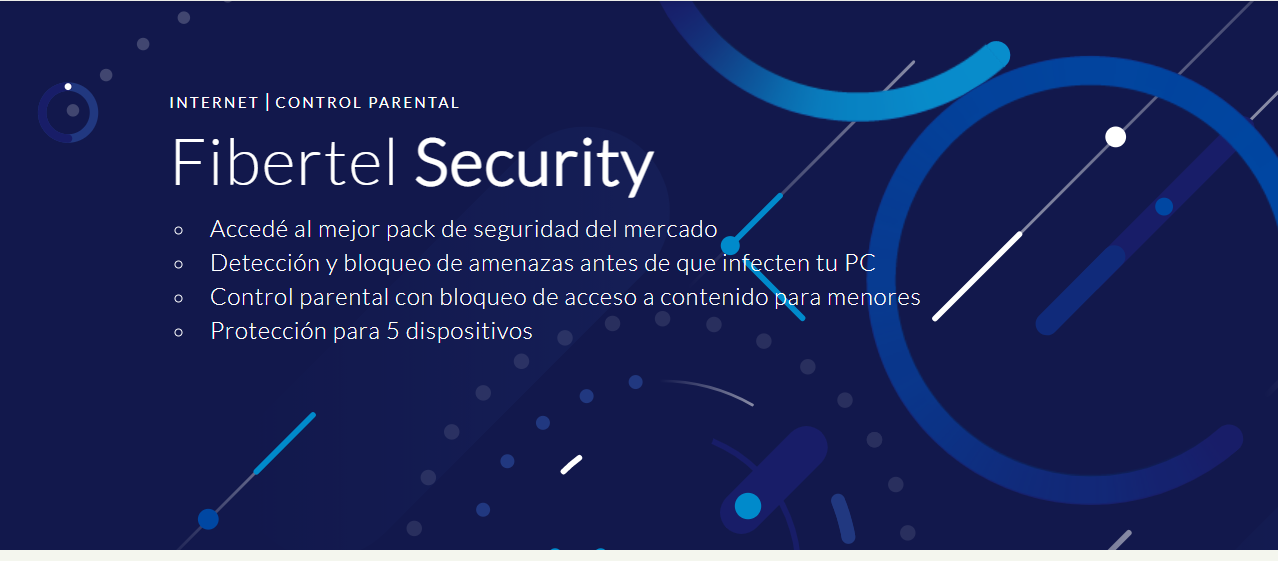
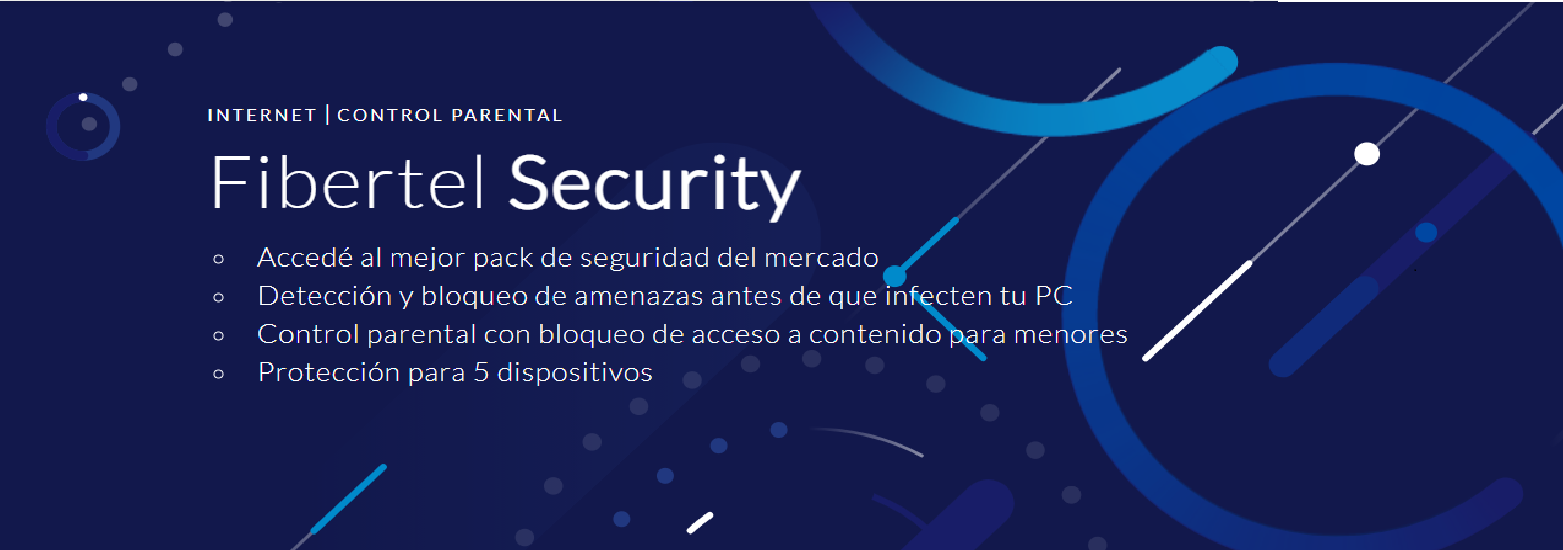
se actualizan modificaciones en footer

diff --git a/index.html b/index.html
@@ -54,13 +54,13 @@
             </div>
             <div class="carousel-inner">
               <div class="carousel-item active">
-                <img src="assets/banner-club.png" class="d-block w-100" alt="Banner Club" height=416px>
+                <img src="assets/banner-club.png" class="d-block w-100 img-fluid" alt="Banner Club" height=416px>
               </div>
               <div class="carousel-item">
-                <img src="assets/banner-fibertelsecurity.png" class="d-block w-100 mh-100" alt="fibertelSecurity" height=416px>
+                <img src="assets/banner-fibertelsecurity.png" class="d-block w-100 mh-100 img-fluid" alt="fibertelSecurity" height=416px>
               </div>
               <div class="carousel-item">
-                <img src="assets/banner-flow.png" class="d-block w-100" alt="banner flow" height=416px>
+                <img src="assets/banner-flow.png" class="d-block w-100 img-fluid" alt="banner flow" height=416px>
               </div>
             </div>
             <button class="carousel-control-prev" type="button" data-bs-target="#carouselExampleIndicators" data-bs-slide="prev">
@@ -224,35 +224,30 @@
         </div>
       </section>
                 <!-- Footer-->
-                <div class="container-fluid my-5">
-
-                  <footer class="text-center text-white" style="background-color: white">
-                    <!-- Grid container -->
-                    <div class="container-fluid p-4">
-                      <!-- Section: Images -->
-                      <section class="">
-                        <div class="row">
-                          <div class="col-lg-2 col-md-12 mb-4 mb-md-0">
-                              <div class="hover-overlay ripple shadow-1-strong rounded" data-ripple-color="light">
-                                  <img src="./assets/footer.png" class="img-fluid d-block"/>
-                                  <a href="#">
-                                      <div class="mask" style="background-color:white"></div></a>
-                              </div>
-                          </div>
-                        
-                      </section>
-                      <!-- Section: Images -->
-                    </div>
-                    <!-- Grid container -->
-                
-                  
-                    <div class="text-center p-3" style="background-color: rgba(0, 0, 0, 0.2);">
-                          <a class="text-white" href="../assets/instructivo.pdf">Descargar instructivos</a>
-                          <a class="text-white" href="mailto:beneficiosempleados@teco.com.ar">Envianos un mail</a>
-                          <a class="text-white" href="https://www.yammer.com/teco.com.ar/">Yammer</a>
-                    </div>
-        
-                  </footer>
+                <section>
+                  <div class="container-fluid my-5">
+  
+       <footer class="text-center text-white" style="background-color: white">
+        <!-- Grid container -->
+          <div class="container-fluid p-4">
+          <!-- Section: Images -->
+             <section class="">
+                  <div class="justify-content-center">
+                      <img src="../assets/footer.png" class="mx-auto d-block img-fluid"/>
+                      <a href="#"><div class="mask" style="background-color:white"></div></a>
+                  </div>
+            </div>
+         </div>
+                      <!-- Grid container -->
+                    </section>
+                    
+                      <div class="text-center p-3" style="background-color: rgba(0, 0, 0, 0.2);">
+                            <a class="text-white" href="../assets/instructivo.pdf">Descargar instructivos</a>
+                            <a class="text-white" href="mailto:beneficiosempleados@teco.com.ar">Envianos un mail</a>
+                            <a class="text-white" href="https://www.yammer.com/teco.com.ar/">Yammer</a>
+                      </div>
+          
+                    </footer>
 
         <!-- Bootstrap core JS-->
         <script src="https://cdn.jsdelivr.net/npm/bootstrap@5.1.0/dist/js/bootstrap.bundle.min.js"></script>

diff --git a/assets/telecom.html b/assets/telecom.html
@@ -104,36 +104,31 @@
                           </tbody>
                           </table>
           </section>
-        <!-- Footer-->
-        <div class="container my-5">
-
-            <footer class="text-center text-white" style="background-color: white">
-              <!-- Grid container -->
-              <div class="container p-4 img-fluid">
-                <!-- Section: Images -->
-                <section class="">
-                  <div class="row">
-                    <div class="col-lg-2 col-md-12 mb-4 mb-md-0">
-                        <div class="bg-image hover-overlay ripple shadow-1-strong rounded" data-ripple-color="light">
-                            <img src="../assets/footer.png" class="mx-auto d-block"/>
-                            <a href="#">
-                                <div class="mask" style="background-color:white"></div></a>
-                        </div>
-                    </div>
-                  
-                </section>
-                <!-- Section: Images -->
-              </div>
-              <!-- Grid container -->
+                <!-- Footer-->
+                <section>
+                  <div class="container-fluid my-5">
+  
+       <footer class="text-center text-white" style="background-color: white">
+        <!-- Grid container -->
+          <div class="container-fluid p-4">
+          <!-- Section: Images -->
+             <section class="">
+                  <div class="justify-content-center">
+                      <img src="../assets/footer.png" class="mx-auto d-block img-fluid"/>
+                      <a href="#"><div class="mask" style="background-color:white"></div></a>
+                  </div>
+            </div>
+         </div>
+                      <!-- Grid container -->
+                    </section>
+                    
+                      <div class="text-center p-3" style="background-color: rgba(0, 0, 0, 0.2);">
+                            <a class="text-white" href="../assets/instructivo.pdf">Descargar instructivos</a>
+                            <a class="text-white" href="mailto:beneficiosempleados@teco.com.ar">Envianos un mail</a>
+                            <a class="text-white" href="https://www.yammer.com/teco.com.ar/">Yammer</a>
+                      </div>
           
-            
-              <div class="text-center p-3" style="background-color: rgba(0, 0, 0, 0.2);">
-                    <a class="text-white" href="../assets/instructivo.pdf">Descargar instructivos</a>
-                    <a class="text-white" href="mailto:beneficiosempleados@teco.com.ar">Envianos un mail</a>
-                    <a class="text-white" href="https://www.yammer.com/teco.com.ar/">Yammer</a>
-              </div>
-
-            </footer>
+                    </footer>
         <!-- Bootstrap core JS-->
         <script src="https://cdn.jsdelivr.net/npm/bootstrap@5.1.0/dist/js/bootstrap.bundle.min.js"></script>
         <!-- Core theme JS-->

diff --git a/assets/cablevision.html b/assets/cablevision.html
@@ -252,35 +252,31 @@
                 </table>
         </section>
         <!-- Footer-->
-        <div class="container my-5">
-
-            <footer class="text-center text-white" style="background-color: white">
-              <!-- Grid container -->
-              <div class="container p-4 img-fluid">
-                <!-- Section: Images -->
-                <section class="">
-                  <div class="row">
-                    <div class="col-lg-2 col-md-12 mb-4 mb-md-0">
-                        <div class="bg-image hover-overlay ripple shadow-1-strong rounded" data-ripple-color="light">
-                            <img src="../assets/footer.png" class="mx-auto d-block"/>
-                            <a href="#">
-                                <div class="mask" style="background-color:white"></div></a>
-                        </div>
-                    </div>
-                  
-                </section>
-                <!-- Section: Images -->
-              </div>
-              <!-- Grid container -->
+                <!-- Footer-->
+                <section>
+                  <div class="container-fluid my-5">
+  
+       <footer class="text-center text-white" style="background-color: white">
+        <!-- Grid container -->
+          <div class="container-fluid p-4">
+          <!-- Section: Images -->
+             <section class="">
+                  <div class="justify-content-center">
+                      <img src="../assets/footer.png" class="mx-auto d-block img-fluid"/>
+                      <a href="#"><div class="mask" style="background-color:white"></div></a>
+                  </div>
+            </div>
+         </div>
+                      <!-- Grid container -->
+                    </section>
+                    
+                      <div class="text-center p-3" style="background-color: rgba(0, 0, 0, 0.2);">
+                            <a class="text-white" href="../assets/instructivo.pdf">Descargar instructivos</a>
+                            <a class="text-white" href="mailto:beneficiosempleados@teco.com.ar">Envianos un mail</a>
+                            <a class="text-white" href="https://www.yammer.com/teco.com.ar/">Yammer</a>
+                      </div>
           
-            
-              <div class="text-center p-3" style="background-color: rgba(0, 0, 0, 0.2);">
-                    <a class="text-white" href="../assets/instructivo.pdf">Descargar instructivos</a>
-                    <a class="text-white" href="mailto:beneficiosempleados@teco.com.ar">Envianos un mail</a>
-                    <a class="text-white" href="https://www.yammer.com/teco.com.ar/">Yammer</a>
-              </div>
-
-            </footer>
+                    </footer>
         <!-- Bootstrap core JS-->
         <script src="https://cdn.jsdelivr.net/npm/bootstrap@5.1.0/dist/js/bootstrap.bundle.min.js"></script>
         <!-- Core theme JS-->

diff --git a/assets/Personal.html b/assets/Personal.html
@@ -162,36 +162,31 @@
       </div>
 </section>
 
-        <!-- Footer-->
-        <div class="container my-5">
-
-          <footer class="text-center text-white" style="background-color: white">
-            <!-- Grid container -->
-            <div class="container p-4 img-fluid">
-              <!-- Section: Images -->
-              <section class="">
-                <div class="row">
-                  <div class="col-lg-2 col-md-12 mb-4 mb-md-0">
-                      <div class="bg-image hover-overlay ripple shadow-1-strong rounded" data-ripple-color="light">
-                          <img src="../assets/footer.png" class="mx-auto d-block"/>
-                          <a href="#">
-                              <div class="mask" style="background-color:white"></div></a>
-                      </div>
+                <!-- Footer-->
+                <section>
+                  <div class="container-fluid my-5">
+  
+       <footer class="text-center text-white" style="background-color: white">
+        <!-- Grid container -->
+          <div class="container-fluid p-4">
+          <!-- Section: Images -->
+             <section class="">
+                  <div class="justify-content-center">
+                      <img src="../assets/footer.png" class="mx-auto d-block img-fluid"/>
+                      <a href="#"><div class="mask" style="background-color:white"></div></a>
                   </div>
-                
-              </section>
-              <!-- Section: Images -->
             </div>
-            <!-- Grid container -->
-        
+         </div>
+                      <!-- Grid container -->
+                    </section>
+                    
+                      <div class="text-center p-3" style="background-color: rgba(0, 0, 0, 0.2);">
+                            <a class="text-white" href="../assets/instructivo.pdf">Descargar instructivos</a>
+                            <a class="text-white" href="mailto:beneficiosempleados@teco.com.ar">Envianos un mail</a>
+                            <a class="text-white" href="https://www.yammer.com/teco.com.ar/">Yammer</a>
+                      </div>
           
-            <div class="text-center p-3" style="background-color: rgba(0, 0, 0, 0.2);">
-                  <a class="text-white" href="../assets/instructivo.pdf">Descargar instructivos</a>
-                  <a class="text-white" href="mailto:beneficiosempleados@teco.com.ar">Envianos un mail</a>
-                  <a class="text-white" href="https://www.yammer.com/teco.com.ar/">Yammer</a>
-            </div>
-
-          </footer>
+                    </footer>
         <!-- Bootstrap core JS-->
         <script src="https://cdn.jsdelivr.net/npm/bootstrap@5.1.0/dist/js/bootstrap.bundle.min.js"></script>
         <!-- Core theme JS-->

diff --git a/assets/fibertel.html b/assets/fibertel.html
@@ -160,23 +160,31 @@
     </div>
  </section>
         <!-- Footer-->
-        <div class="container my-5">
-
-            <footer class="text-center text-white" style="background-color: white">
-              <!-- Grid container -->
-              <div class="container p-4 img-fluid">
-                <!-- Section: Images -->
-                <section class="">
-                  <div class="row">
-                    <div class="col-lg-2 col-md-12 mb-4 mb-md-0">
-                        <div class="bg-image hover-overlay ripple shadow-1-strong rounded" data-ripple-color="light">
-                            <img src="../assets/footer.png" class="mx-auto d-block"/>
-                            <a href="#">
-                                <div class="mask" style="background-color:white"></div></a>
-                        </div>
-                    </div>
-                  
-                </section>
+                <!-- Footer-->
+                <section>
+                  <div class="container-fluid my-5">
+  
+       <footer class="text-center text-white" style="background-color: white">
+        <!-- Grid container -->
+          <div class="container-fluid p-4">
+          <!-- Section: Images -->
+             <section class="">
+                  <div class="justify-content-center">
+                      <img src="../assets/footer.png" class="mx-auto d-block img-fluid"/>
+                      <a href="#"><div class="mask" style="background-color:white"></div></a>
+                  </div>
+            </div>
+         </div>
+                      <!-- Grid container -->
+                    </section>
+                    
+                      <div class="text-center p-3" style="background-color: rgba(0, 0, 0, 0.2);">
+                            <a class="text-white" href="../assets/instructivo.pdf">Descargar instructivos</a>
+                            <a class="text-white" href="mailto:beneficiosempleados@teco.com.ar">Envianos un mail</a>
+                            <a class="text-white" href="https://www.yammer.com/teco.com.ar/">Yammer</a>
+                      </div>
+          
+                    </footer>
                 <!-- Section: Images -->
               </div>
               <!-- Grid container -->
